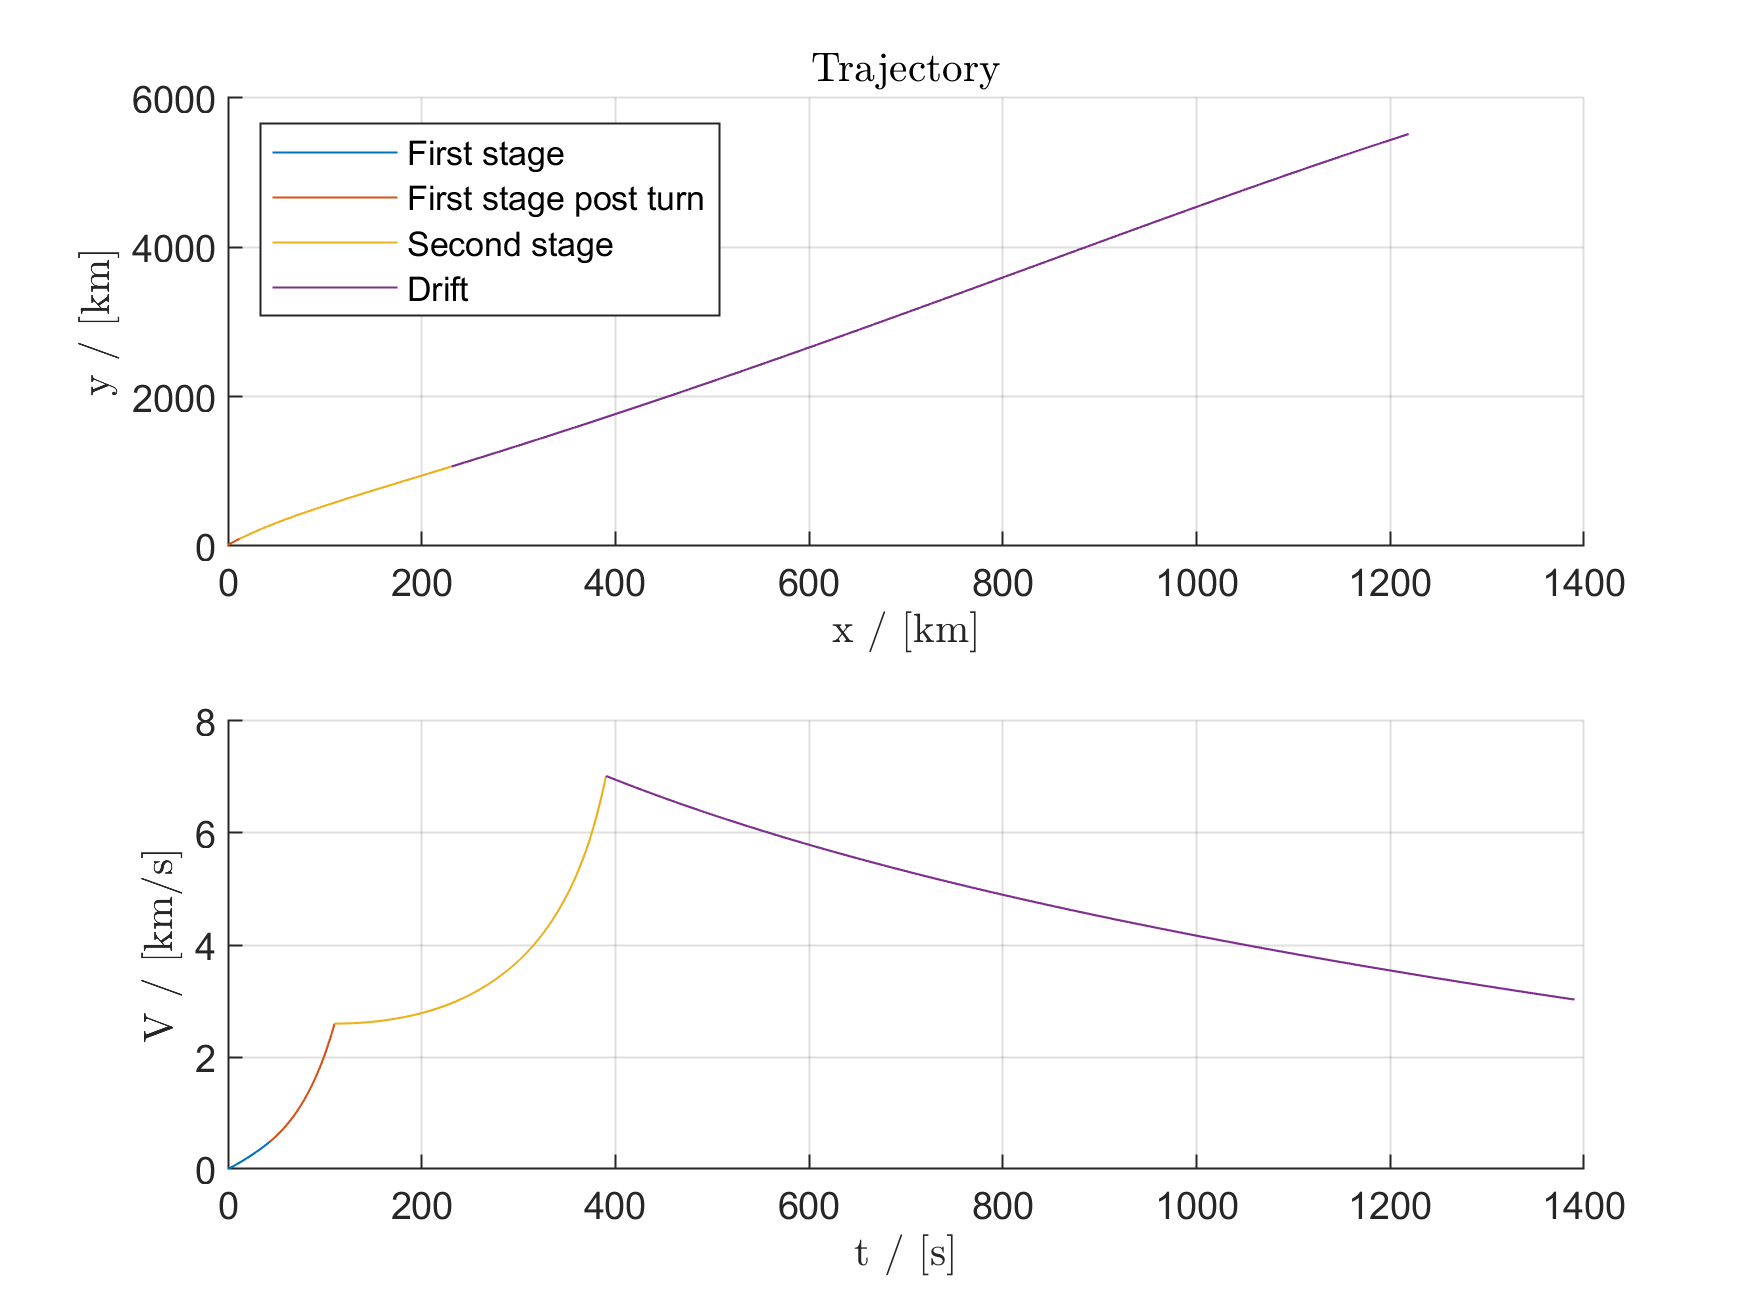
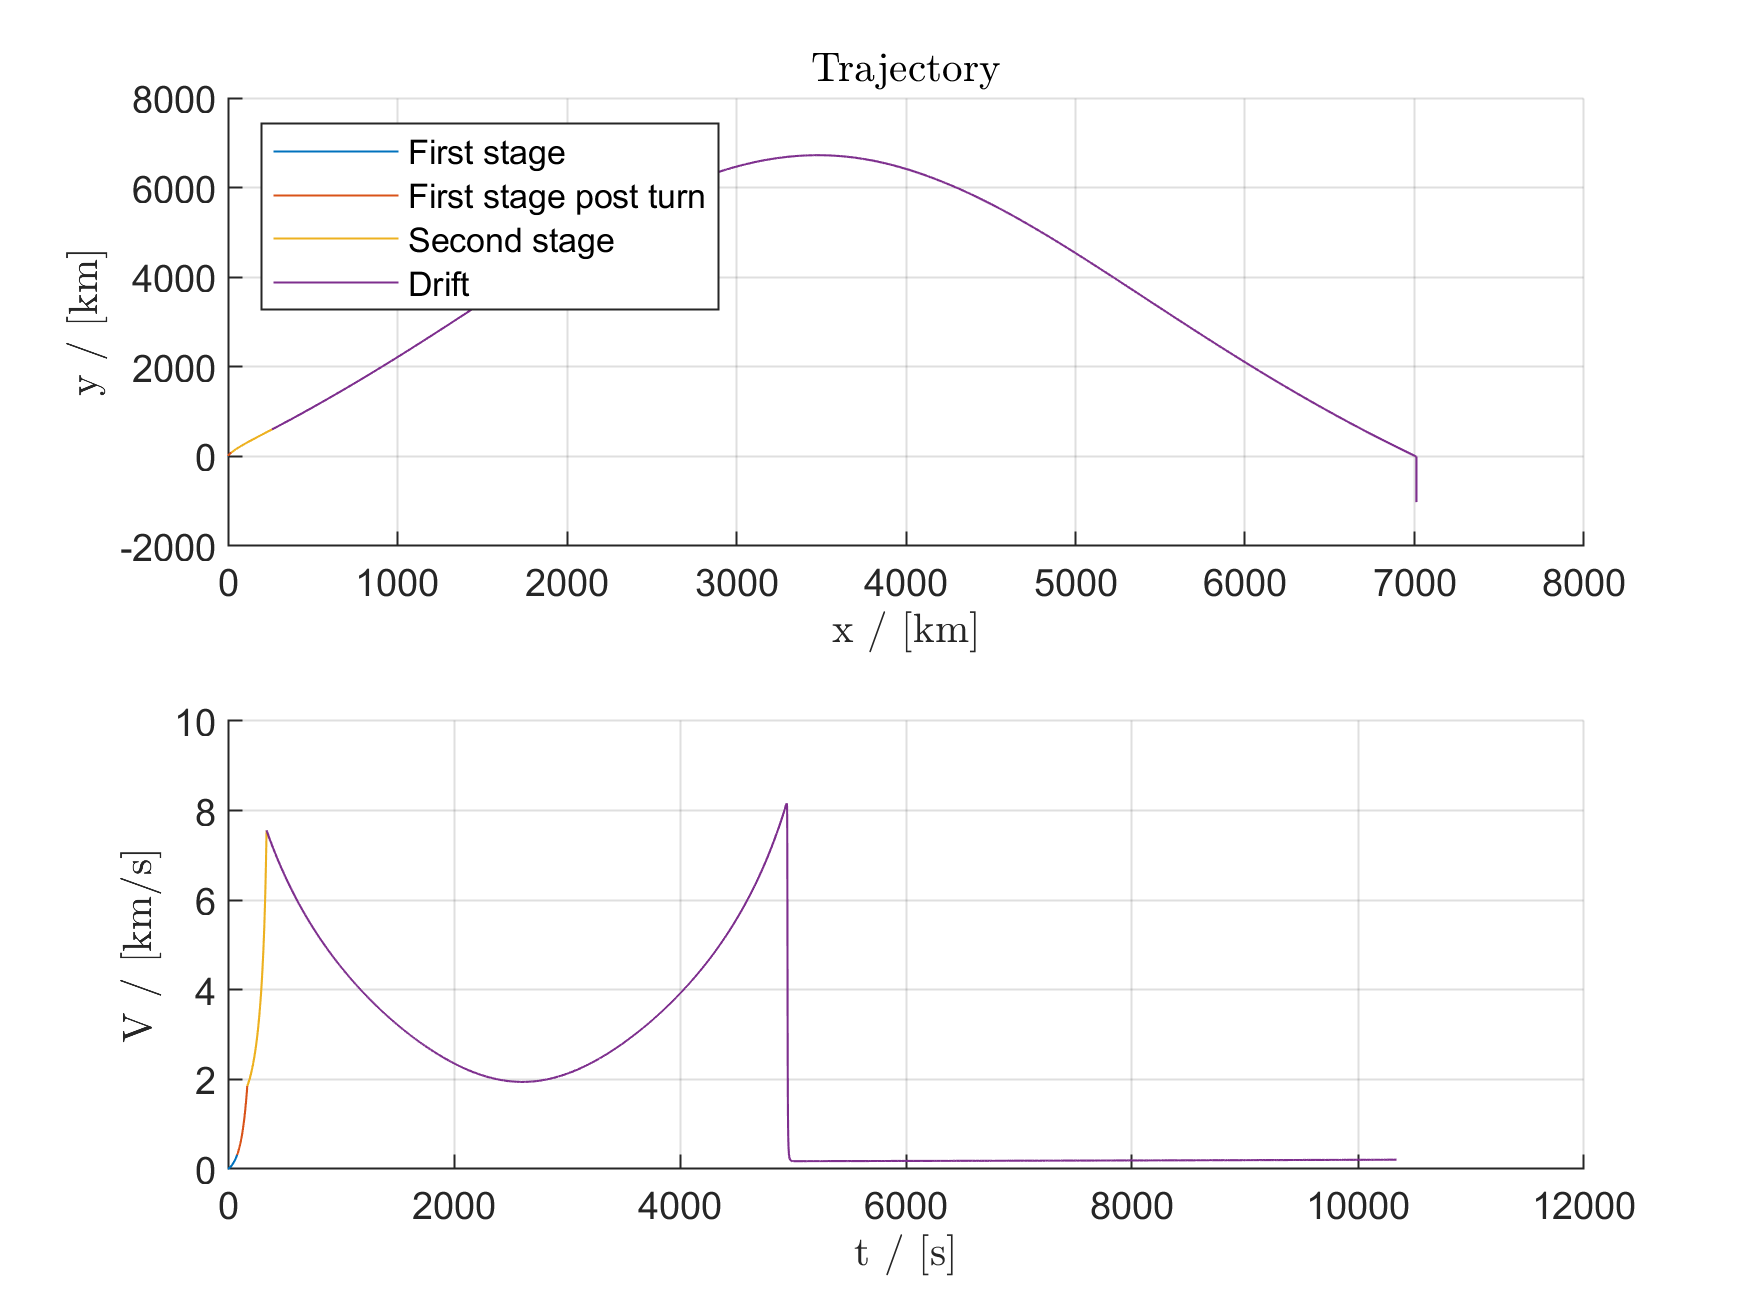
Updated scaled_vega

diff --git a/simulate_two_stage_rocket.m b/simulate_two_stage_rocket.m
@@ -1,0 +1,106 @@
+function simulate_two_stage_rocket(stage_1, stage_2, burn_rates, ...
+        programmed_turn_height, programmed_turn_angle, ...
+        target_altitude, ...
+        drift_duration)
+    %simulate_two_stage_rocket Performs entire simulation, control and plot
+    %   Input parameters:
+    %   :stage_1        : The first stage of the rocket before ignition.
+    %   :stage_2        : The second stage of the rocket before ignition.
+    %   :burn_rates     : Array of 3 burn rates; rate before turn, rate
+    %                     after turn and max burnrate for second stage.
+    %   :programmed_turn_height: Height at which the programmed turn is
+    %                            made.
+    %   :programmed_turn_angle : Programmed turn in radians.
+    %   :target_altitude: The target mission altitude to reach.
+    %   :drift_duration : The duration for drift after deployment.
+    %
+    %   Output:
+    %    - Displays useful information such as:
+    %      - Propellant mass left in stage 2 at deployment.
+    %    - Plot of the trajectory and V(t).
+    %
+    %   Notes:
+    %    - Program only support the rocket to turn to the right (negative
+    %      programmed turn angle).
+    
+    %% Fix inputs
+    
+    programmed_turn_angle = norm(programmed_turn_angle);
+    if programmed_turn_angle > 10*pi/180:
+        fprintf("Are you sure you entered programmed turn angle %f in radians", programmed_turn_angle)
+    end
+    
+    %% Common values
+    
+    g_0 = 9.81;
+    R_e = 6371000;
+    
+    %% Construct steering modules
+    
+    steer_1_to_programmed_turn = SteeringModule(); % First stage until programmed turn
+    steer_1_to_programmed_turn = steer_1_to_programmed_turn.set_break_height(programmed_turn_height);
+    steer_1_to_programmed_turn = steer_1_to_programmed_turn.set_constant_burn_rate(burn_rates(1));
+
+    steer_1_after_programmed_turn = SteeringModule(); % First stage after programmed turn until burnout
+    steer_1_after_programmed_turn = steer_1_after_programmed_turn.set_break_at_burnout();
+    steer_1_after_programmed_turn = steer_1_after_programmed_turn.set_constant_burn_rate(burn_rates(2));
+
+    % TODO: Warn if target height cant be reached
+    steer_2_reach_target_height = SteeringModule(); % Second stage until apogee
+    steer_2_reach_target_height = steer_2_reach_target_height.set_break_at_height(target_altitude);
+    steer_2_reach_target_height = steer_2_reach_target_height.set_target_apogee(target_altitude+R_e, burn_rates(3)); %(taget_apogee, max_burn_rate) 
+
+    steer_2_drift = SteeringModule(); % Drift of second stage
+    steer_2_drift = steer_2_drift.set_break_after_duration(drift_duration);
+    steer_2_drift = steer_2_drift.set_constant_burn_rate(0);
+
+    %% Simulate
+    
+    % Data allocation for plots
+    number_of_trajectories = 4;
+    trajectories = cell(number_of_trajectories, 2);
+
+    % First stage until turn
+    t_0 = 0;
+    u_0 = [0.1, 90*pi/180, 0.1, 0.1, stage_1.m_0]';
+    [t_list, u_list] = solve_trajectory(t_0, u_0, stage_1, steer_1_to_programmed_turn); 
+    trajectories(1,:) = {t_list, u_list};
+
+    % Turn first stage and simulate gravity turn
+    t_0 = t_list(end);
+    u_0 = u_list(end,:);
+    stage_1 = stage_1.remove_used_propellant(stage_1.m_0-u_0(5));
+    u_0(2) = u_0(2) + programmed_turn_angle;
+    [t_list, u_list] = solve_trajectory(t_0, u_0, stage_1, steer_1_after_programmed_turn); 
+    trajectories(2,:) = {t_list, u_list};
+
+    % Separation, simulate stage 2 in gravity turn until burnout
+    t_0 = t_list(end);
+    u_0 = u_list(end,:);
+    [t_list, u_list] = solve_trajectory(t_0, u_0, stage_2, steer_2_reach_target_height); 
+    trajectories(3,:) = {t_list, u_list};
+
+    % Make instant delta V to reach target trajectory
+    v = u_list(end, 1);
+    gamma = u_list(end, 2);
+    current_velocity = [v*cos(gamma), v*sin(gamma)];
+    target_velocity = [sqrt(398600/(target_altitude+R_e)), 0];
+    m_p_used = propellant_for_velocity_change(current_velocity, target_velocity, stage_2);
+    stage_2 = stage_2.remove_used_propellant(m_p_used);
+    % Update state
+    t_0 = t_list(end);
+    u_0 = u_list(end,:);
+    u_0(1) = target_velocity;
+    u_0(2) = 0;
+    u_0(5) = u_0(5)-m_p_used;
+    % Separation, simulate stage 2 drift after burnout
+    stage_2 = stage_2.remove_used_propellant(stage_2.m_p);
+    [t_list, u_list] = solve_trajectory(t_0, u_0, stage_2, steer_2_drift); 
+    trajectories(4,:) = {t_list, u_list};
+
+    %% Plot and savefig
+
+    legends = ["First stage", "First stage post turn", "Second stage", "Drift"];
+    visualize(number_of_trajectories, trajectories, legends);
+
+end

diff --git a/reach_target_orbit_vega.m b/reach_target_orbit_vega.m
@@ -1,0 +1,51 @@
+%% Vega test
+
+%% Falcon 9 first stage test
+
+stage_1 = Stage(138487, 88365, A, C_d, V_e, 101300, A_e);
+stage_2 = Stage(42792, 26000, A/5, C_d, V_e, 101300, A_e);
+stage_3 = Stage(13942, 10500, A/5, C_d, V_e, 101300, A_e);
+stage_4 = Stage(2127, 550, );
+
+steering_1 = SteeringModule();
+steering_2 = steering_module.set_programmed_turn(1000, -5);
+steering_3 = steering_module.set_constant_burn_rate(1451.9*5);
+
+
+steering_module_2= SteeringModule();
+steering_module_2 = steering_module.set_constant_burn_rate(1451.9);
+
+%% Construct rocket stage list
+
+number_of_stages = 2;
+stages = {falcon_9_first_stage, falcon_9_second_stage}; 
+steering_modules = {steering_module_1, steering_module_2};
+
+%% Compute
+t_0 = 0;
+u_0 = [0.1, 90*pi/180, 0, 0, m_0]';
+stage_trajectories = cell(number_of_stages, 2);
+for n = 1:number_of_stages
+    dur_max = 1000;
+    [t_list, u_list] = solve_trajectory(t_0, u_0, stages{n}, steering_modules{n}); 
+    stage_trajectories(n,:) = {t_list, u_list};
+    t_0 = t_list(end);
+    u_0 = u_list(end,:);
+end
+    
+x = u_list(:,3);
+y = u_list(:,4);
+
+%% Plot and savefig
+x1 = x;
+y1 = y;
+x2 = x+x(end);
+y2 = y+y(end);
+
+trajectories = {
+    x1, y1; 
+    x2, y2 
+};
+
+legends = ["First stage", "Second stage"];
+visualize(number_of_stages, stage_trajectories, legends);

diff --git a/solve_trajectory.m b/solve_trajectory.m
@@ -1,4 +1,4 @@
-function [t, u_list] = solve_trajectory(t_0, u_0, stage, steering_module)
+function [t, u_list, delta_V_array] = solve_trajectory(t_0, u_0, stage, steering_module)
 %solve_trajectory Finds the gravity turn trajectory of a stage with 
 %   Solves the gravity turn ODE of the given Stage with a corresponding
 %   SteeringModule at specified initial conditions.
@@ -8,8 +8,12 @@ function [t, u_list] = solve_trajectory(t_0, u_0, stage, steering_module)
     load rho_by_kilometer.mat rho_by_kilometer        
     
     % Timespan
-%     t_span = [t_0, t_0+stage.m_p/steering_module.burn_rate(u_0)];
-    t_span = linspace(t_0, t_0+1000,1001);
+    %t_span = [t_0, t_0+stage.m_p/steering_module.burn_rate(u_0)];
+    t_span = linspace(t_0, t_0+10000, 10001);
+    
+    % Data allocation 
+    % Delta V contains thrust, gravity drag, air drag delta Vs
+    delta_V_array = cell(3,1);
     
 % TODO: Make solution for variable burn rate (calculate for large
 % timespan and then find the t range until all propelant has been

diff --git a/scaled_vega.m b/scaled_vega.m
@@ -25,12 +25,12 @@ steer_3 = steer_3.set_constant_burn_rate(64.1843*2.5);
 steer_3 = steer_3.set_constant_burn_rate(64.1843*2.5);
 
 steer_4 = SteeringModule();
-steer_4 = steer_4.set_break_after_duration(1000);
+steer_4 = steer_4.set_break_after_duration(10000);
 steer_4 = steer_4.set_constant_burn_rate(0);
 
 %% Compute
 % Data allocation for plots
-number_of_trajectories = 3;
+number_of_trajectories = 4;
 trajectories = cell(number_of_trajectories, 2);
 
 % First stage until turn

diff --git a/propellant_for_velocity_change.m b/propellant_for_velocity_change.m
@@ -1,0 +1,9 @@
+function m_p_used = propellant_for_velocity_change(v_initial, v_target, stage)
+%propelant_for_velocity_change Calculates m_p required for instant delta V
+%   Given a Stage object with v_initial as initial velocity this function
+%   calculates the propellant required to reach the target velocity
+%   v_target.
+    delta_V_required = norm(v_initial, v_target);
+    m_p_used = stage.m_0(1-exp(-delta_V_required/stage.V_e);
+end
+
